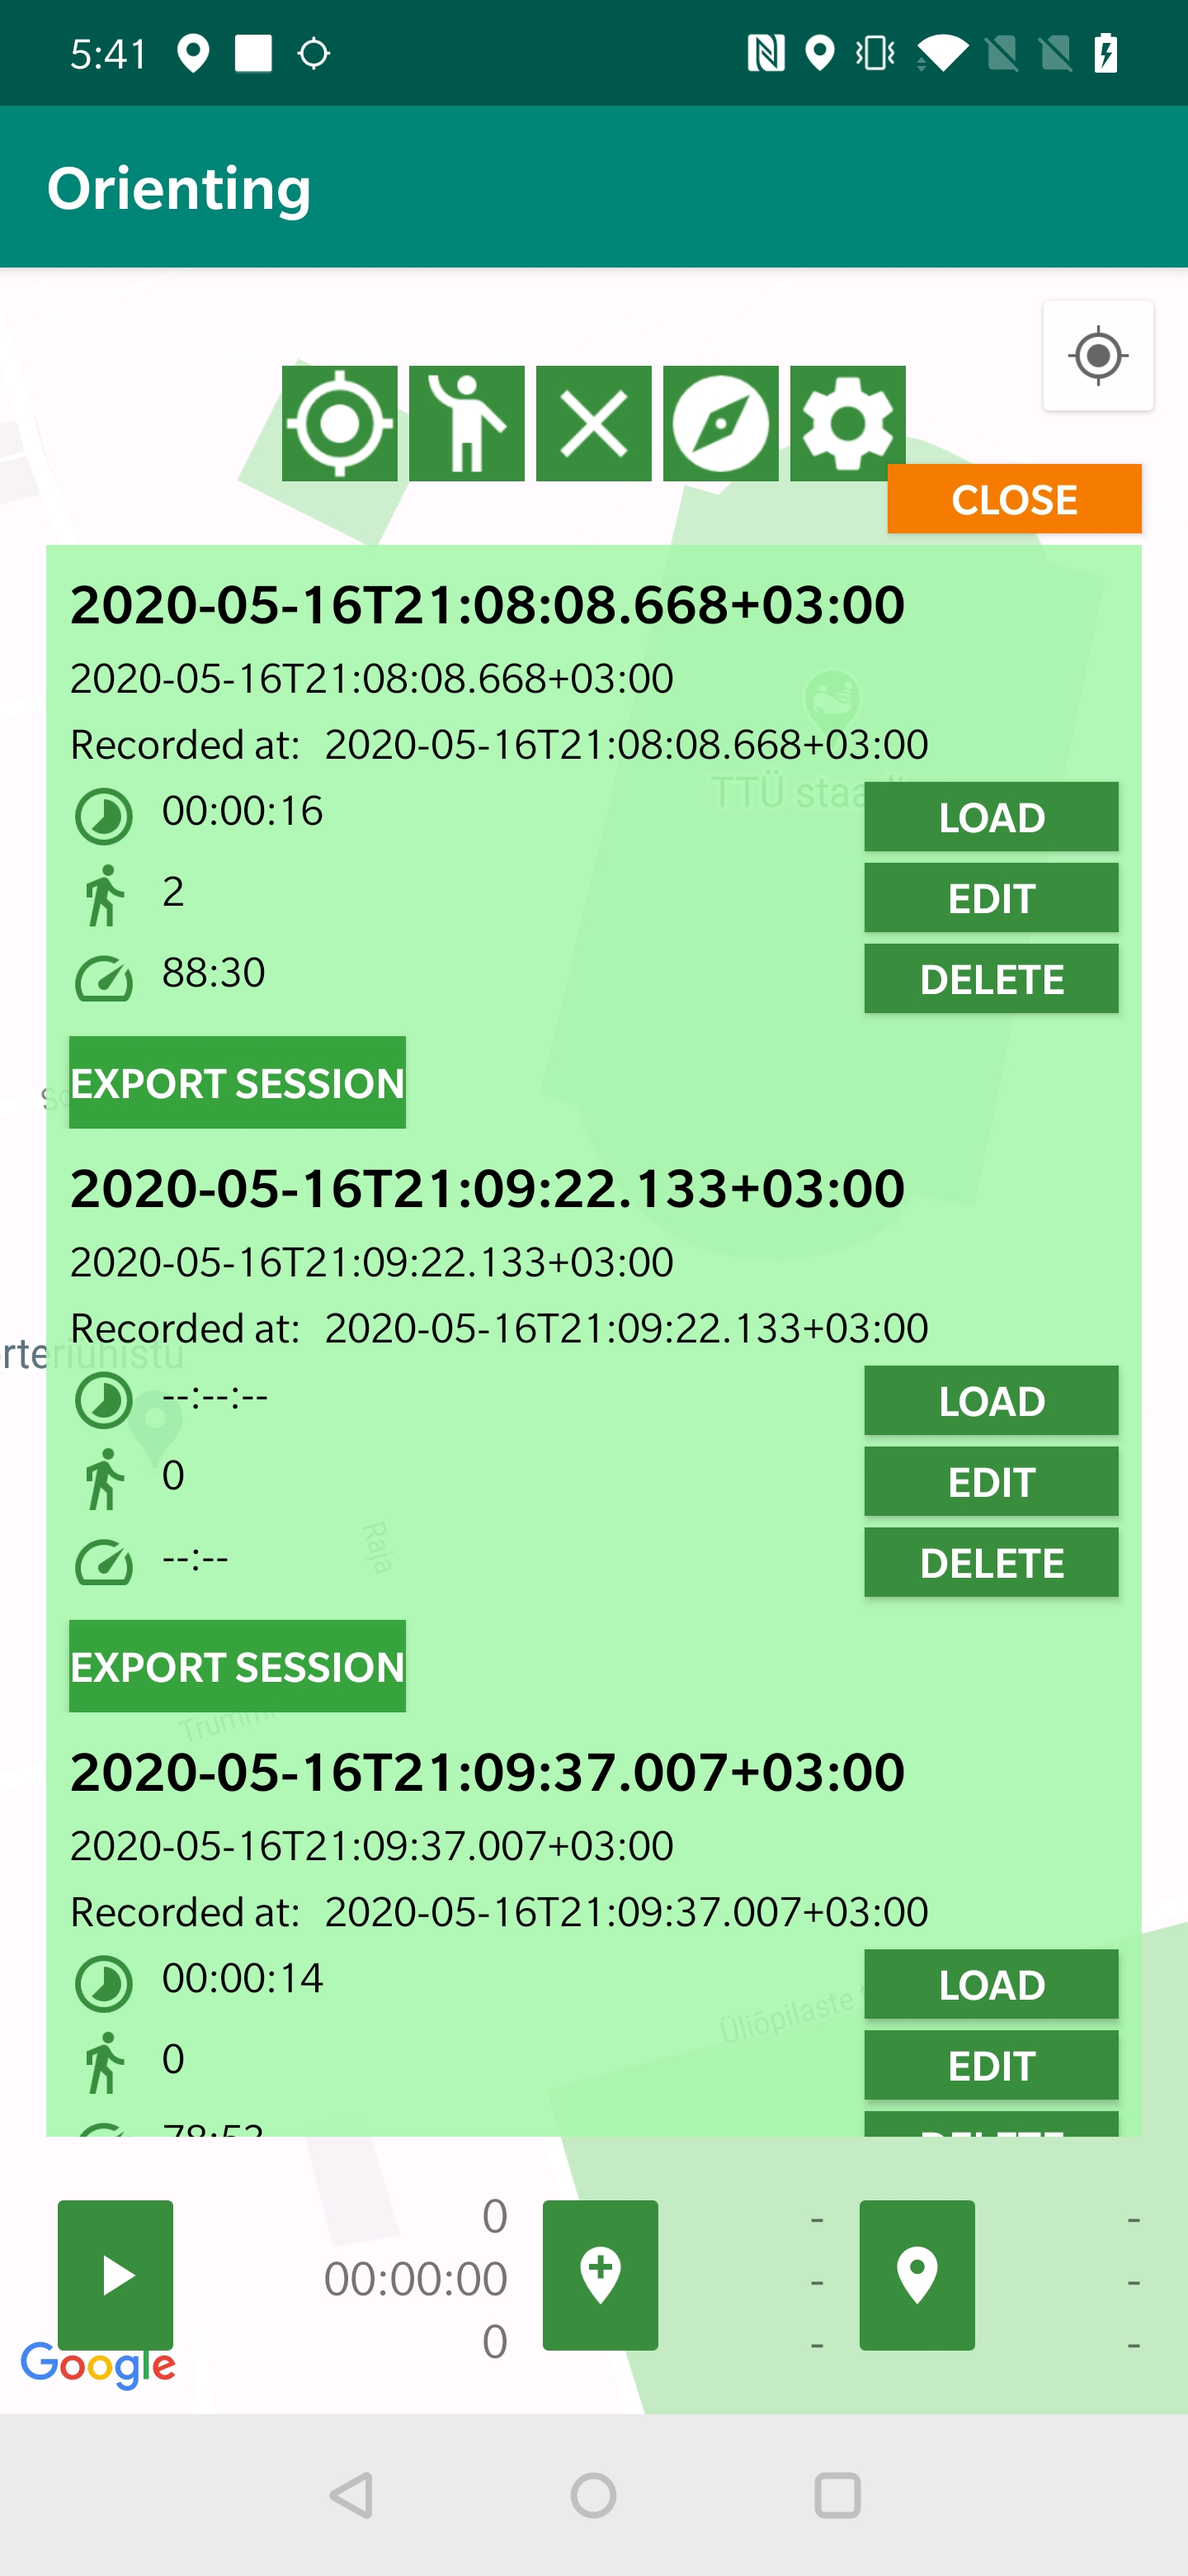
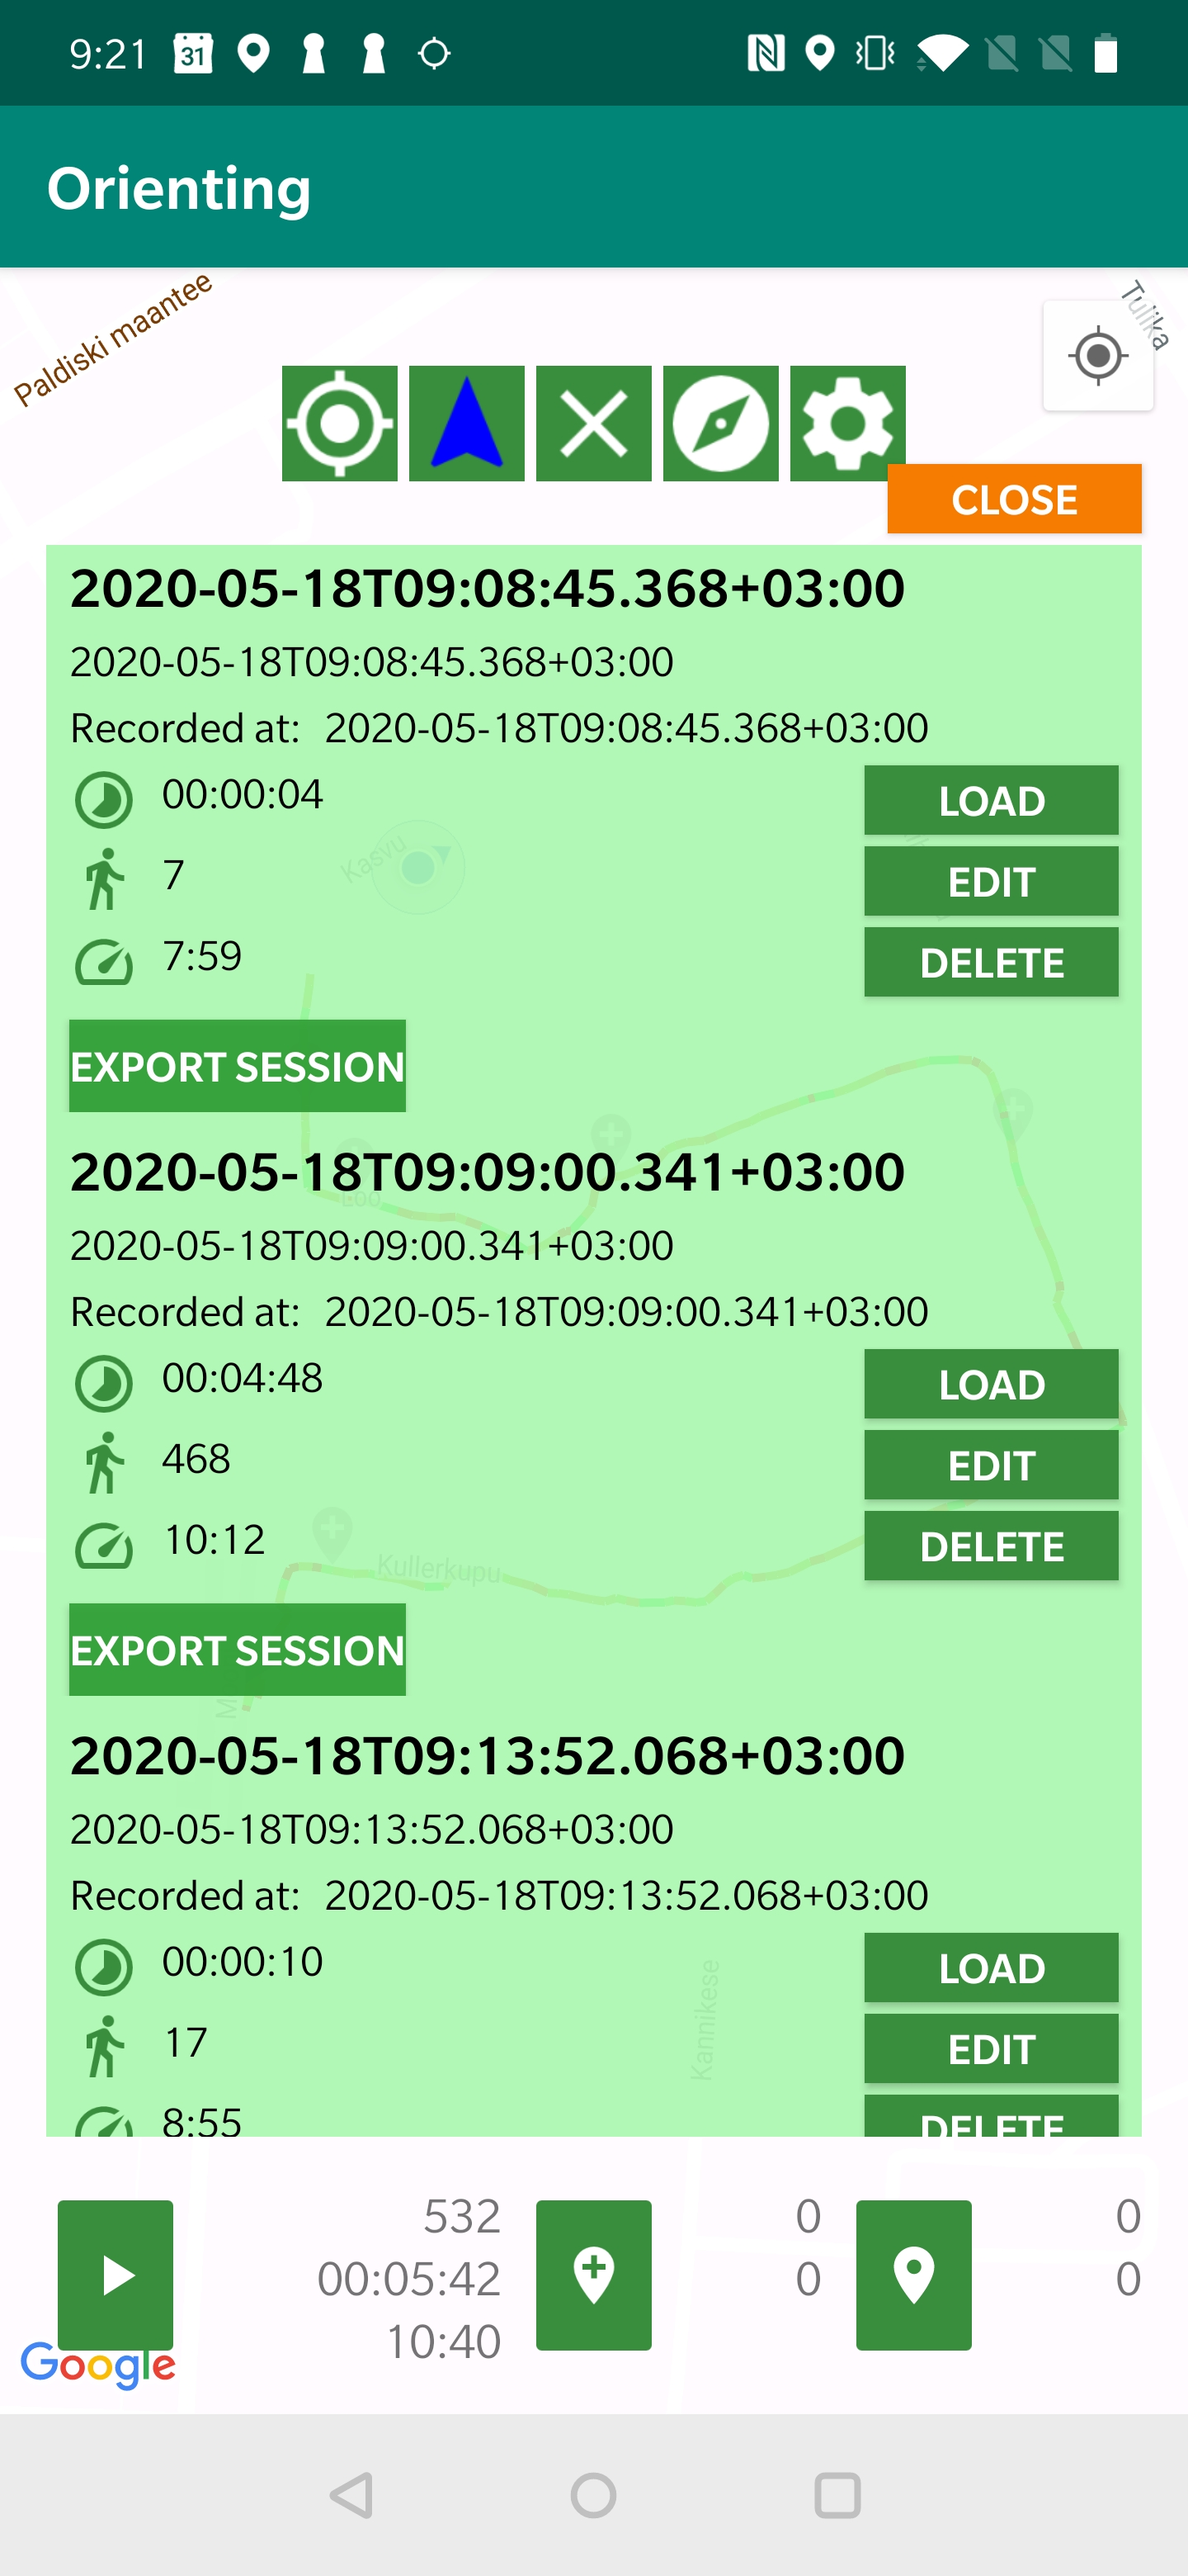
updated readme

diff --git a/README.md b/README.md
@@ -6,8 +6,8 @@ DB: SQLite
 Current app version: 1.0
 
 | Track is drawn along with control and way points     | Change settings      |  Review old sessions      |  Edit old session     |  Compass      |  Export session as GPX      |  Notification on lock screen     |  
-|------------|-------------|-------------|-------------|-------------|-------------| 
-| Picture coming soon..| ![screenshot](screenshots/Options.jpg)| ![screenshot](screenshots/OldSessions.jpg)| ![screenshot](screenshots/EditOldSession.jpg)| ![screenshot](screenshots/Compass.jpg)| ![screenshot](screenshots/ExportGPX.jpg)| Picture coming soon..|
+|------------|-------------|-------------|-------------|-------------|-------------|-------------| 
+| ![Screenshot](screenshots/Track1.jpg) | ![Screenshot](screenshots/Options.jpg)| ![Screenshot](screenshots/OldSessions.jpg)| ![Screenshot](screenshots/EditOldSession.jpg)| ![screenshot](screenshots/Compass.jpg)| ![screenshot](screenshots/ExportGPX.jpg)| ![screenshot](screenshots/Notification.jpg)|
 
 v1.0 functionalities:
 * Draw gradient polyline between recorded locations
